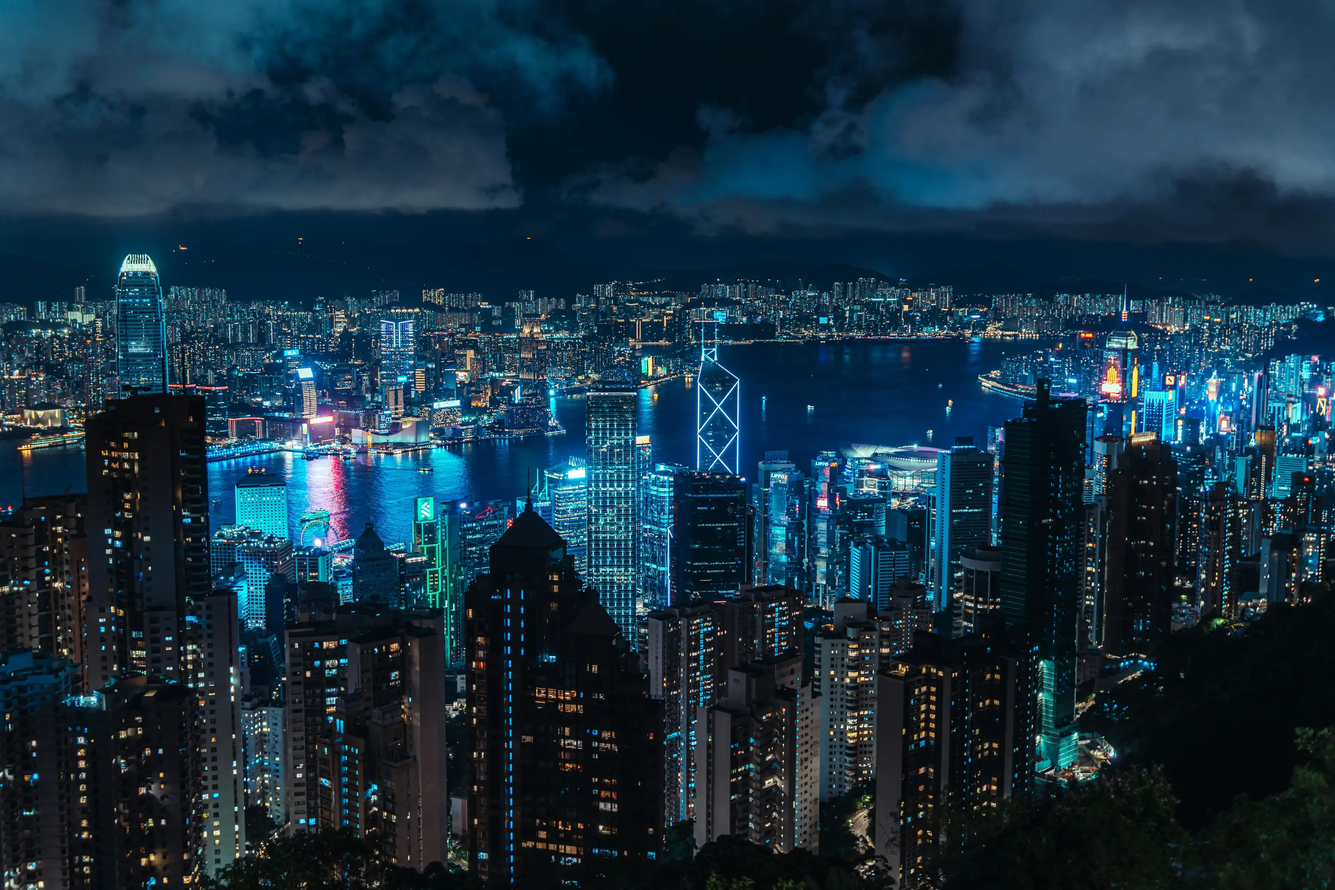
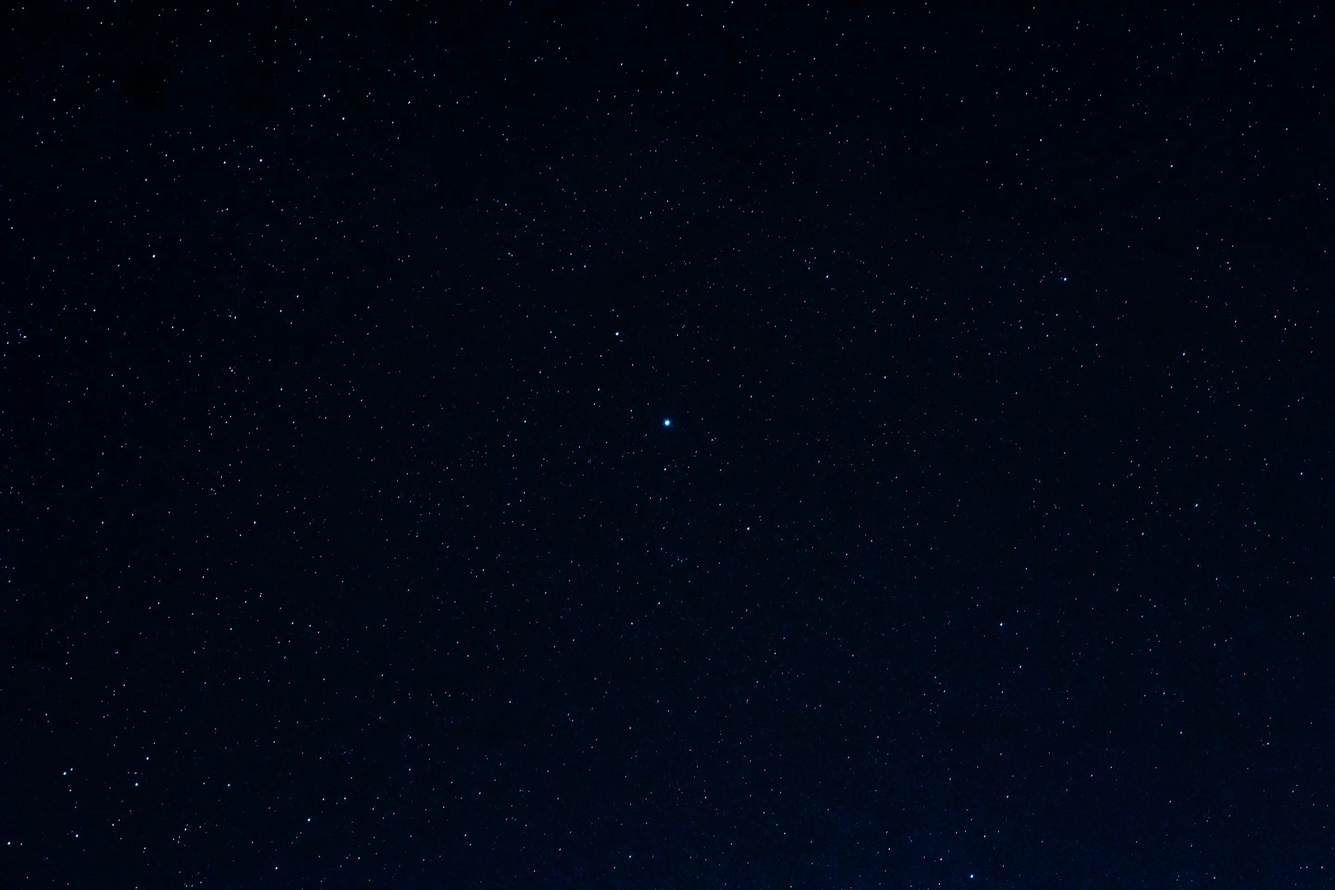
feat(wallpaper): star field on desktop and phone
Replaces the dot grid. Desktop 99 KB; phone is a portrait crop centred on the
brightest star. The tone layer stays neutral.

diff --git a/src/app/globals.css b/src/app/globals.css
@@ -18,15 +18,11 @@
   --accent-tint: rgba(0, 122, 255, 0.1); /* Tinted secondary button */
   --accent-tint-hover: rgba(0, 122, 255, 0.16);
   --status-green: #34c759;
-  /* The wallpaper: a dot grid on a charcoal desktop, drawn in CSS (no image to load) */
-  --wallpaper-base: #18181b;
-  --wallpaper-dot: rgba(255, 255, 255, 0.13);
-  --wallpaper-dot-gap: 18px;
-  /* The tone layer over the wallpaper (it calmed the old photo wallpapers): 1 = full colour, 0 = no dimming.
-     A flat grid needs none, so it is neutral; raise these again for a photo. */
+  /* The tone layer over the wallpaper: 1 = full colour, 0 = no dimming. The star field is already dark,
+     so it is neutral; raise these for a brighter photo. */
   --wallpaper-saturation: 1;
   --wallpaper-dim: 0;
-  /* Extra shade from the top for a photo with a pale sky; none for the grid */
+  /* Extra shade from the top, for a photo with a pale sky; none needed for the night sky */
   --wallpaper-sky-shade: 0;
   /* The About text's coloured words and the matching dots on the desktop */
   --tag-build: #3b82f6;
@@ -90,11 +86,9 @@ body {
   /* clip, not hidden: hidden on both html and body makes body a scroll container that never
      scrolls, which silently breaks every position: sticky on long pages (case study contents) */
   overflow-x: clip;
-  /* OS Desktop Wallpaper: an even grid of faint dots, centred so it sits symmetrically on any screen */
-  background-color: var(--wallpaper-base);
-  background-image: radial-gradient(circle, var(--wallpaper-dot) 1px, transparent 1.6px);
-  background-size: var(--wallpaper-dot-gap) var(--wallpaper-dot-gap);
-  background-position: center;
+  /* OS Desktop Wallpaper: a star field (owner's photo) */
+  background: #050814 url('/wallpaper-desktop.webp') no-repeat center center fixed;
+  background-size: cover;
   background-attachment: fixed;
   min-height: 100vh;
   height: 100%;
@@ -614,6 +608,8 @@ html[data-mc] .os-window.absolute-window {
     min-height: 100dvh;
     /* iOS ignores fixed backgrounds and repaints a stretched wallpaper on every scroll */
     background-attachment: scroll;
+    /* A portrait crop of the desktop wallpaper, centred on its brightest star */
+    background-image: url('/wallpaper-phone.webp');
   }
 
   /* Phones have their own status bar, so the fake macOS menu bar and desktop icons give way to

diff --git a/docs/PROJECT_CONTEXT.md b/docs/PROJECT_CONTEXT.md
@@ -16,9 +16,8 @@ bar. Audience: recruiters and hiring managers, many arriving on mobile via Linke
 
 ## Current state (2026-10-31)
 
-- **Desktop (redesigned 2026-10-31):** dark dot-grid wallpaper since 2026-11-21, drawn in CSS on `body` in `globals.css` (`--wallpaper-base`
-  #18181b, `--wallpaper-dot`, `--wallpaper-dot-gap` 18px; no image; was the dawn photo, then briefly a hills and
-  a skyline photo, whose WebPs are still in `public/` unused), sunrise loader, a slim menu bar (sections, battery, Wi-Fi, clock), and one icon column on the right (five
+- **Desktop (redesigned 2026-10-31):** star-field wallpaper since 2026-11-21 (owner's photo, `public/wallpaper-desktop.webp`, 2880×1920,
+  99 KB; was the dawn photo, then briefly hills, skyline and a CSS dot grid), sunrise loader, a slim menu bar (sections, battery, Wi-Fi, clock), and one icon column on the right (five
   sections, then Kissan and Gau, which open their prototypes). Every window is translucent dark glass,
   themed once in `globals.css` (`.os-window:not(.ios-app)`). About is `AboutCard.tsx`. Old About concepts
   remain at `/?about=live | showcase | store | native | classic` until the owner confirms the design;
@@ -72,7 +71,8 @@ bar. Audience: recruiters and hiring managers, many arriving on mobile via Linke
   ERP green) on the desktop icon column and phone home page 1 (`toolApps` in `resume.ts`, also in Spotlight), plus
   the viewer's tabs / dropdown / phone switcher and `?prototype=sales-crm`. Kept out of the hero and About app
   lists, which are the consumer apps. Desktop opens the Desktop layout; phones always get the mobile layout.
-- **Phone:** the same dot grid (scrolls with the page on phones, as iOS ignores fixed backgrounds) and the Back button in `PhoneBack.tsx`. Keep in-app overlays in `depth` there.
+- **Phone:** portrait crop of the star field centred on its brightest star (`public/wallpaper-phone.webp`,
+  1080×2340, 50 KB) and the Back button in `PhoneBack.tsx`. Keep in-app overlays in `depth` there.
 - Stack: Next.js 16.3 App Router, React 19.2, TypeScript, CSS Modules + tokens in
   `src/app/globals.css`, framer-motion, lucide-react, react-icons.
 - Sections (tab ids in `WindowContext.activeTab`): `about`, `experience`, `education`,
@@ -457,6 +457,9 @@ Goal: turn visits into interviews. North star = resume downloads + "Send a memo"
   to a simple layout on mobile. No fake metrics.
 
 ## Changelog
+
+- 2026-11-21: **Wallpaper is the owner's star-field photo** (replacing the dot grid). Desktop 99 KB, phone crop
+  50 KB centred on the bright star. The tone layer stays neutral: the sky is dark enough for every label.
 
 - 2026-11-21: **Wallpaper is a dark dot grid** (owner: "something similar to this [a light dot grid], but in
   grey or black"). CSS only: faint white dots every 18px on #18181b, centred. The tone layer is neutral now
